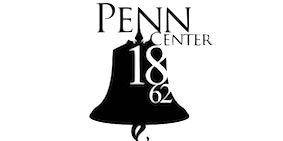
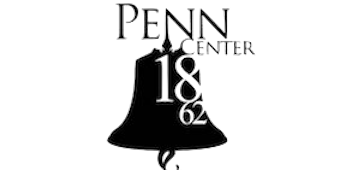
saving changes

diff --git a/projects.html b/projects.html
@@ -54,9 +54,9 @@
 <main>
 <img src="images/disney.png" alt="Disney">
 <img src="images/videoGame.png" alt="Java Video Game">
-<img src="images/penncenter.jpeg" alt="The Penn Center">
+<img src="images/penncenter.png" alt="The Penn Center">
 <img src="images/app.png" alt="Bluffton Buddy">
-<img src="images/hlf.jpg" alt="The Hilton Head Heritage Library Foundation">	
+<img src="images/hfl.png" alt="The Hilton Head Heritage Library Foundation">	
 	
 	
 </main>
